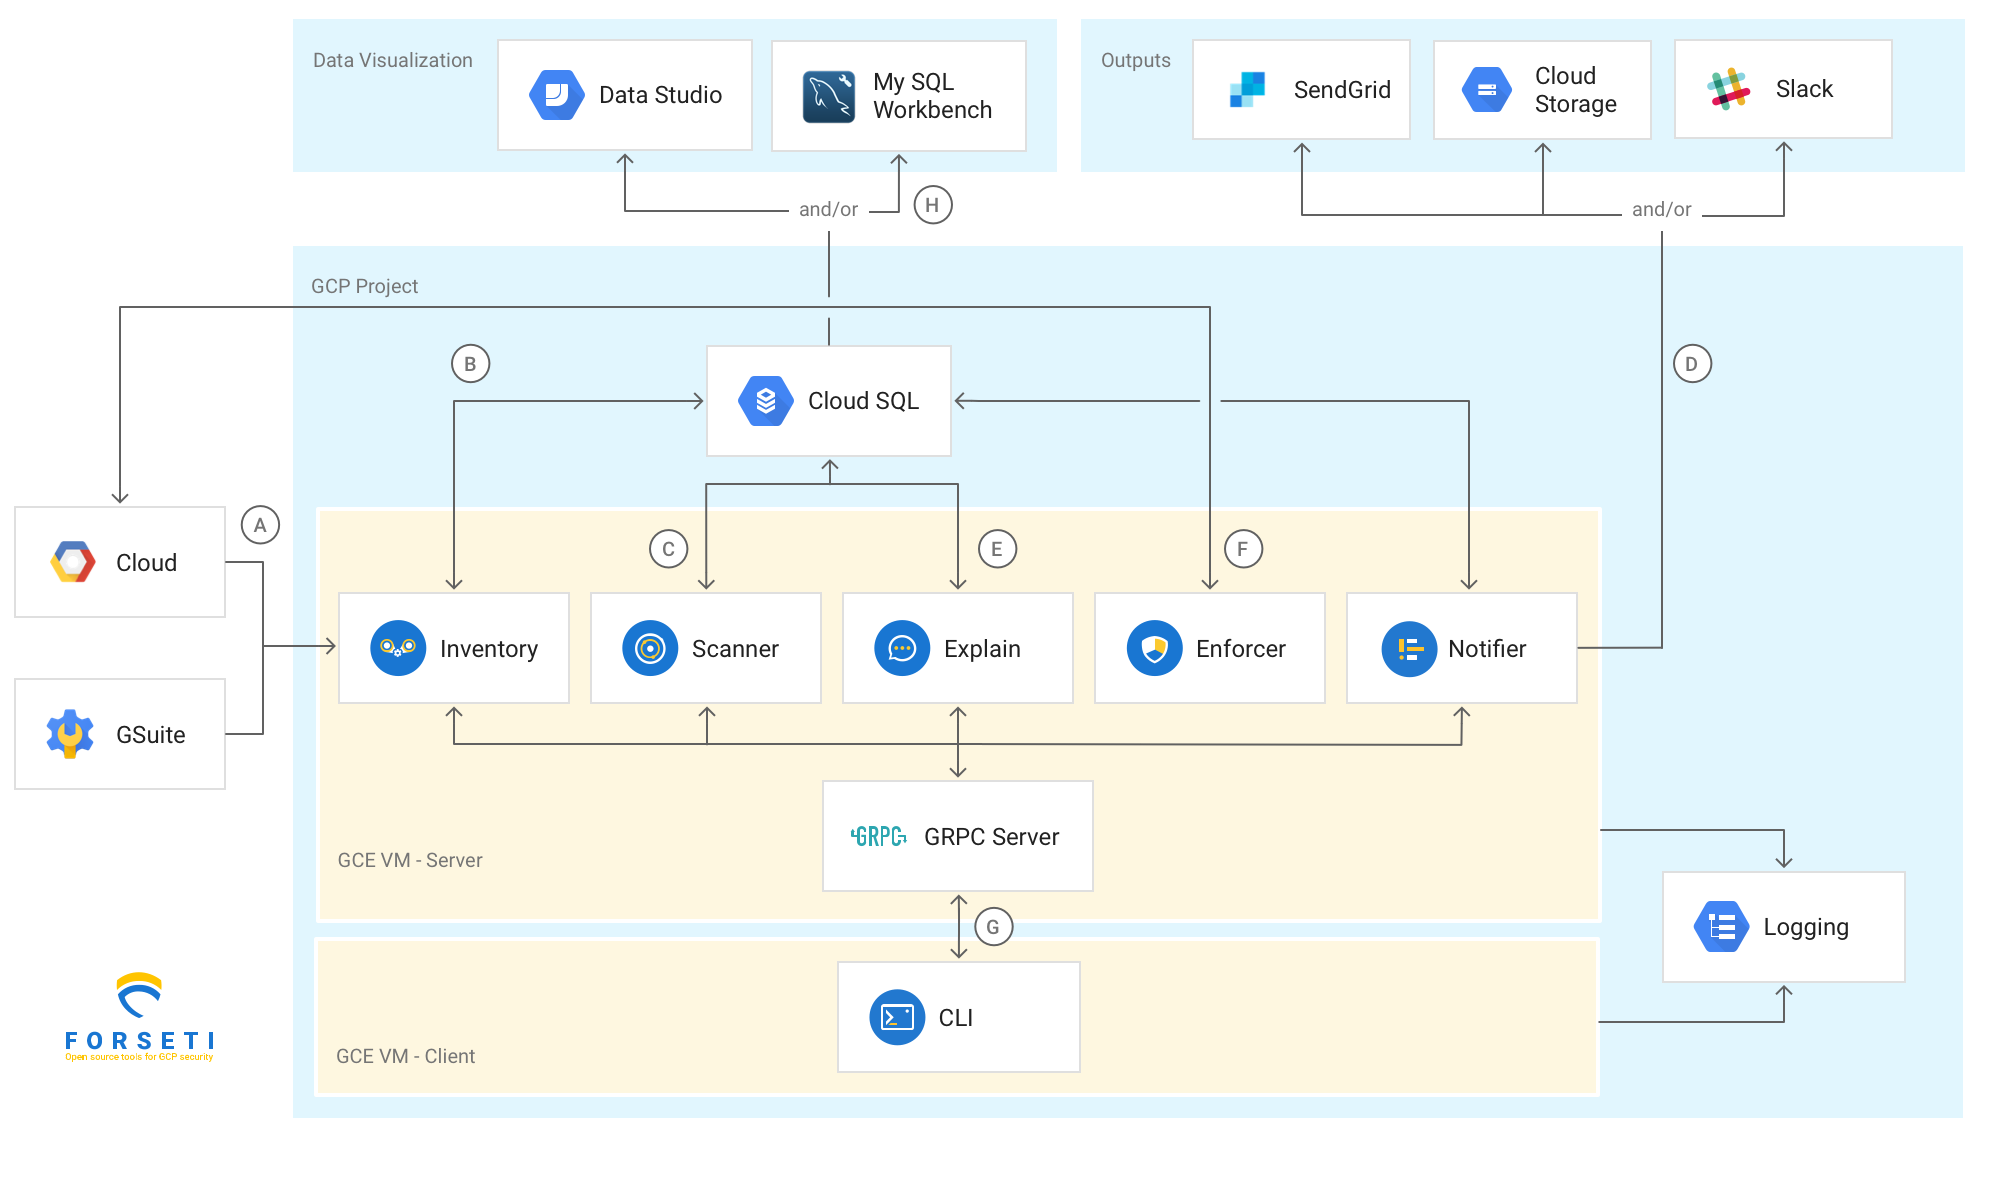
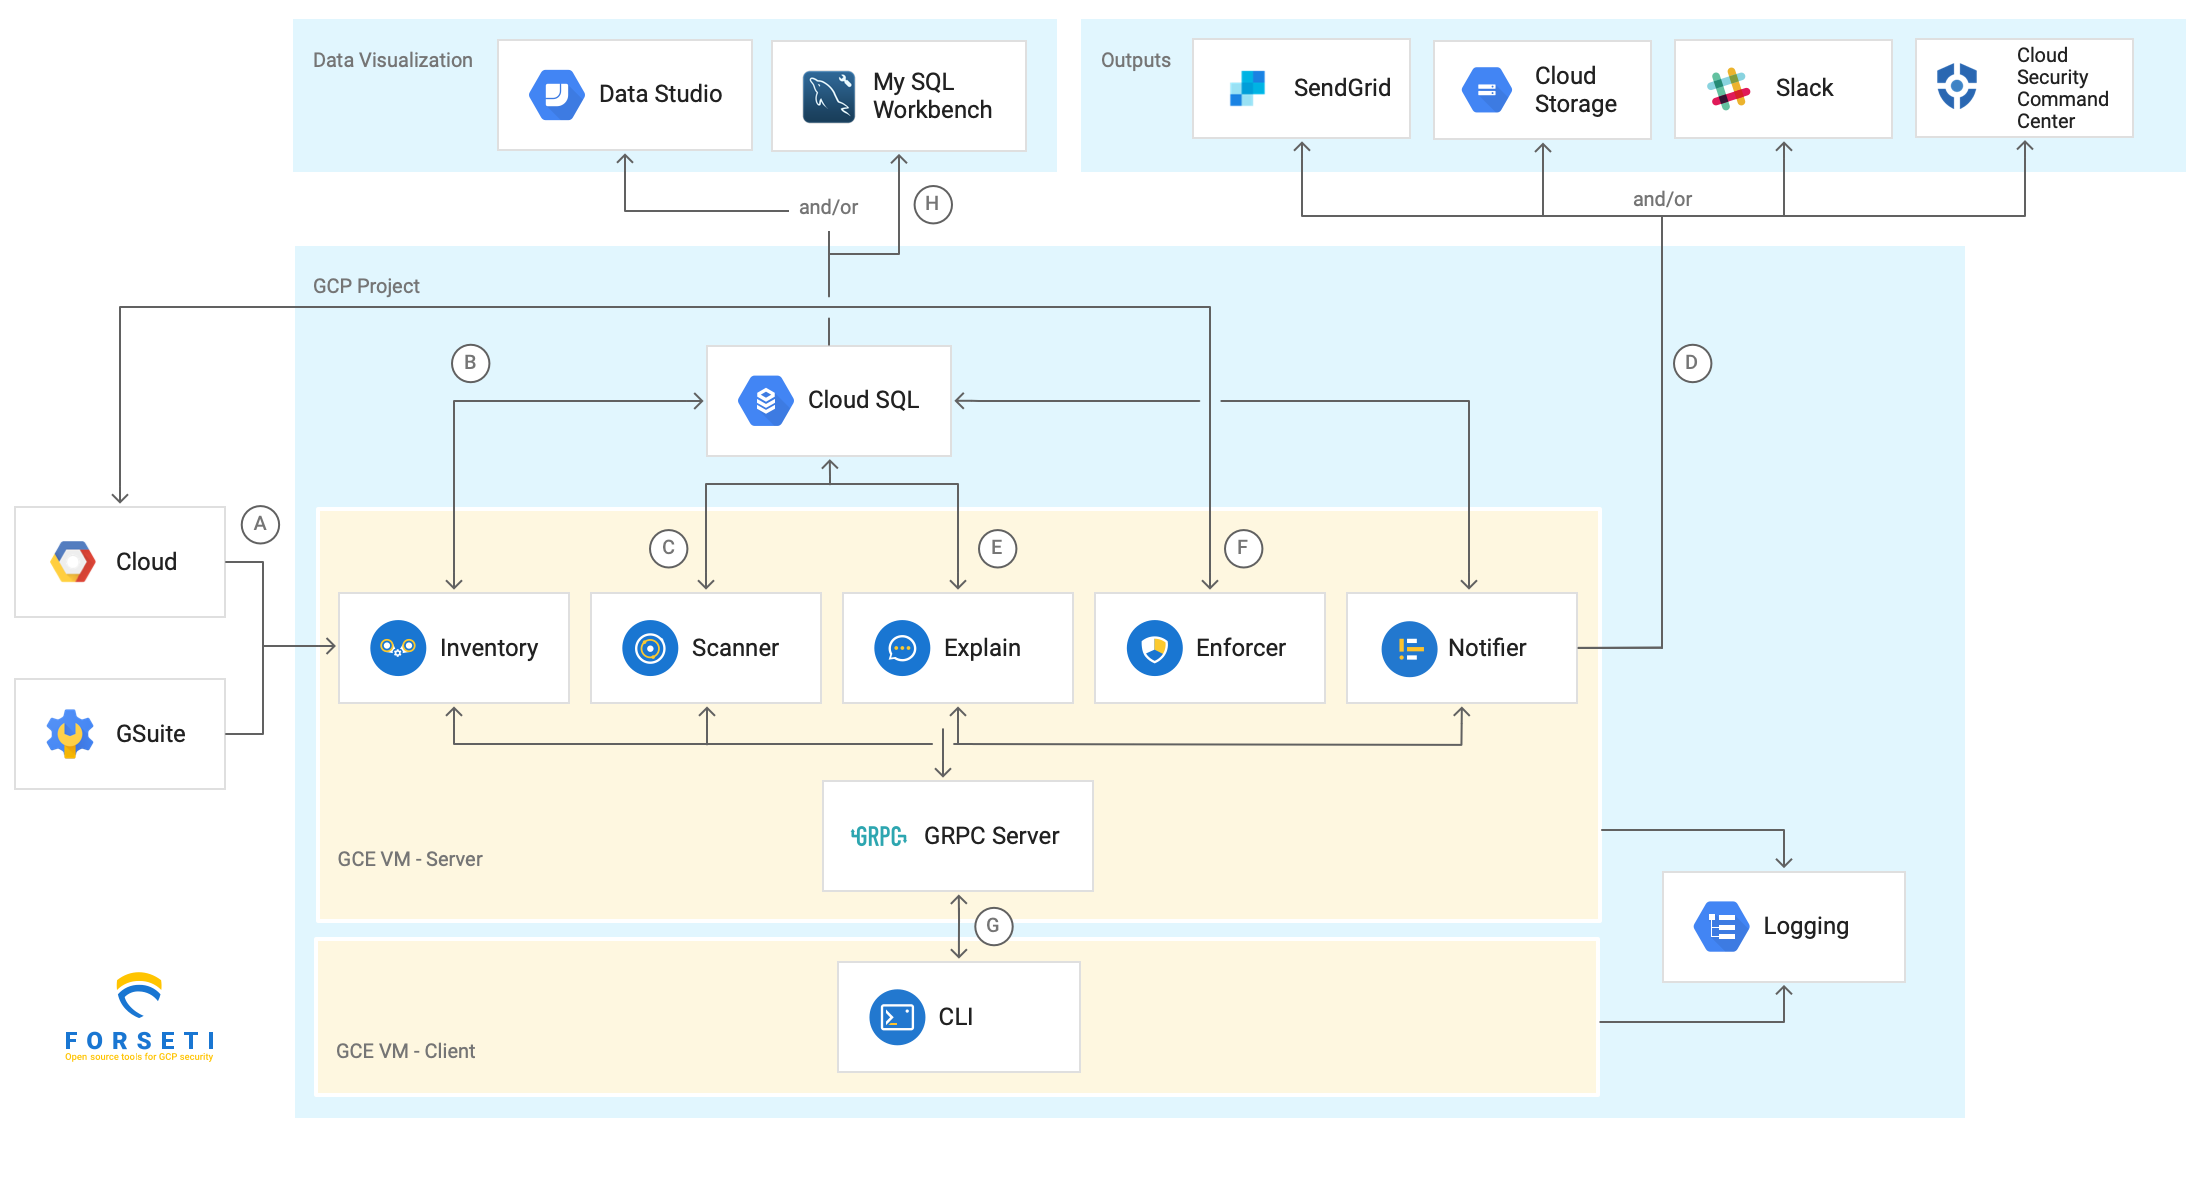
Update architecture.md (#2794)
* Update architecture.md

* Updated diagram

New graphic with CSCC

* Update index.md

diff --git a/_docs/_latest/concepts/architecture.md b/_docs/_latest/concepts/architecture.md
@@ -41,7 +41,7 @@ security risks.
  1. Scanner compares the data collected by Inventory to the policy rules you
     set.
  1. Notifier sends Scanner & Inventory results to one or more of the following channels you
-    configure: Cloud Storage, SendGrid, and Slack.
+    configure: Cloud Storage, SendGrid, Slack and Cloud Security Command Center.
  1. You use Explain to query and understand your Cloud IAM policies.
  1. Enforcer uses Google Cloud APIs to make sure policies match your desired
     state.

diff --git a/_docs/_latest/configure/notifier/index.md b/_docs/_latest/configure/notifier/index.md
@@ -22,6 +22,7 @@ and varying formats to you to events in your Google Cloud Platform
 * Email
 * Slack
 * Cloud Storage
+* Cloud Security Command Center
 
 **The possible formats of notifications**
 * Human-readable data: CSV
